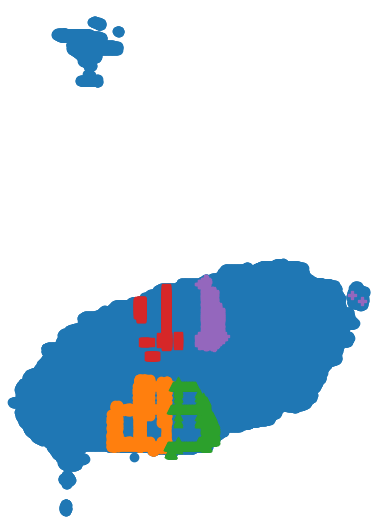
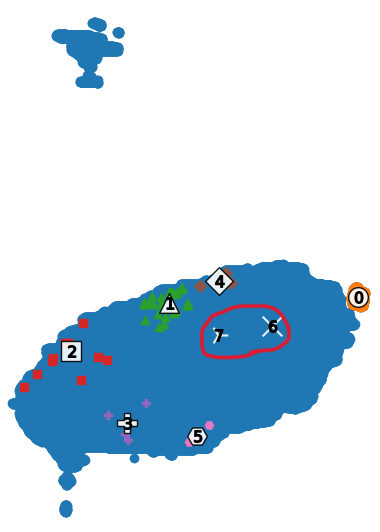
jhs2

diff --git a/templates/datapg/pr.html b/templates/datapg/pr.html
@@ -47,9 +47,28 @@
                                 <h3 class='panel-title' style='text-align:center;'>제주도 전기차 급속 충전소 최적 입지 선정</h3>
                             </div>
                             <div class='panel-body'>
+                                <form method="post">
+                                    <ul>
+                                        <li style="list-style-type: none;">
+                                            <input type="checkbox" id="chimsoo" value="0" name="chimsoo" checked>&nbsp;침수우려여부&emsp;
+                                            <input type="checkbox" id="cctv" value="1" name="cctv" checked>&nbsp;cctv 유무&emsp;
+                                            <input type="checkbox" id="search" value="2" name="search" checked>&nbsp;합산 검색 수&emsp;
+                                            <input type="checkbox" id="elecar" value="3" name="elecar" checked>&nbsp;2122전기차증감율&emsp;
+                                            <input type="checkbox" id="statis_2" value="4" name="statis_2" checked>&nbsp;2개년 통계_2&emsp;
+                                            <input type="checkbox" id="statis_1" value="5" name="statis_1" checked>&nbsp;2개년 통계_1&emsp;
+                                            <input type="checkbox" id="updown_1" value="6" name="updown_1" checked>&nbsp;2개년 증감율_1&emsp;
+                                            <input type="checkbox" id="updown_2" value="7" name="updown_2" checked>&nbsp;2개년 증감율_2&emsp;
+                                            <input type="checkbox" id="tour" value="8" name="tour" checked>&nbsp;관광객수&emsp;
+                                        </li>
+                                    </ul>
+                                    <div style="text-align: center; padding-bottom: 10px;">
+                                        <input type="button" id="sub" value="feature 변경">
+                                    </div>
+                                </form>
                                 <div id="map" style="width:100%; height:600px; margin:auto;"></div>
                             </div>
                             <div class="panel-footer">
+                                <a href="http://localhost:8081/tetttt">go to Spring</a>
                                 <h3 class="panel-title" style="text-align: right">최종 수정일 : 23.03.14</h3>
                             </div>
                         </div>
@@ -76,7 +95,7 @@
         <script src="{% static 'vendor/bootstrap/js/bootstrap.min.js' %}"></script>
         <script src="{% static 'vendor/jquery-slimscroll/jquery.slimscroll.min.js' %}"></script>
         <script src="{% static 'scripts/klorofil-common.js' %}"></script>
-
+        <script src="{% static 'scripts/pr.js' %}"></script>
         <!-- 카카오 맵 api -->
         <script type="text/javascript" src="//dapi.kakao.com/v2/maps/sdk.js?appkey=e033816e8f4fac437e466060be505bae&libraries=clusterer"></script>
         <script type="text/javascript">
@@ -84,7 +103,7 @@
             	center : new kakao.maps.LatLng(33.377, 126.538), // 지도의 중심좌표
             	level : 10 // 지도의 확대 레벨
             });
-
+            
             map2.setZoomable(false);
             map2.addControl(new kakao.maps.MapTypeControl(), kakao.maps.ControlPosition.TOPLEFT);
             map2.addControl(new kakao.maps.ZoomControl(), kakao.maps.ControlPosition.LEFT);

diff --git a/templates/datapg/pr_2.html b/templates/datapg/pr_2.html
@@ -46,21 +46,23 @@
                                     <h3 class="panel-title" style="text-align: center">제주도 전기차 급속 충전소 최적 입지 선정</h3>
                                 </div>
                                 <div class="panel-body">
-                                    <div class="col-xs-5">
+                                    <div class="col-xs-5" style="text-align:center;">
                                         <img src="{% static 'img/output1-1.png' %}" alt="charger" style="width: auto; height: 500px; margin: auto" />
                                         <br />
                                         <h3 style="text-align: center">설치 전</h3>
+                                        
                                         <br />
-                                        <h3 style="text-align: center">총 3603개의 입지 선정 후보지</h3>
+                                        <h3 style="text-align: center">총 419곳의 입지 선정 후보지</h3>
                                     </div>
                                     <div class="col-xs-2" style="padding-top: 250px">
                                         <img src="{% static 'img/gogo.png' %}" style="width: 100%; height: 100%; margin: auto" />
                                     </div>
-                                    <div class="col-xs-5">
+                                    <div class="col-xs-5" style="text-align:center;">
                                         <img src="{% static 'img/output_22.png' %}" alt="charger" style="width: auto; height: 500px; margin: auto" />
                                         <h3 style="text-align: center">설치 후</h3>
                                         <br />
-                                        <h3 style="text-align: center">3587개로 후보지 감소</h3>
+                                        <h3 style="text-align: center">418곳으로 후보지 감소</h3>
+                                        <h3 style="text-align: center"><b>제주시 봉개동, 구좌읍</b> 충전소 수요 해결</h3>
                                     </div>
                                 </div>
                             </div>

diff --git a/static/scripts/pr.js b/static/scripts/pr.js
@@ -1,0 +1,46 @@
+$(function () {
+    $("#sub").on("click", validation);
+});
+
+function validation() {
+    let chimsoo = $("#chimsoo").val();
+    let cctv = $("#cctv").val();
+    let search = $("#search").val();
+    let elecar_1 = $("#elecar").val();
+    let statis_2 = $("#statis_2").val();
+    let statis_1 = $("#statis_1").val();
+    let pl_mi_1 = $("#updown_1").val();
+    let pl_mi_2 = $("#updown_2").val();
+    let tour = $("#tour").val();
+
+    console.log(chimsoo);
+    console.log(cctv);
+    console.log(search);
+    console.log(elecar_1);
+    console.log(statis_2);
+    console.log(statis_1);
+    console.log(pl_mi_1);
+    console.log(pl_mi_2);
+    console.log(tour);
+
+    if (
+        !$("#chimsoo").is(":checked") &&
+        !$("#cctv").is(":checked") &&
+        !$("#search").is(":checked") &&
+        !$("#elecar").is(":checked") &&
+        !$("#statis_2").is(":checked") &&
+        !$("#statis_1").is(":checked") &&
+        !$("#updown_1").is(":checked") &&
+        !$("#updown_2").is(":checked") &&
+        !$("#tour").is(":checked")
+    ) {
+        alert("한가지 이상의 feature를 선택해야 합니다!");
+        return false;
+    } else {
+        list = []
+        for(var i=0;i<9;i++){
+            list.push
+        }
+        console.log("해제");
+    }
+}

diff --git a/datapg/views.py b/datapg/views.py
@@ -1,6 +1,13 @@
 from django.shortcuts import render
 from django.http import HttpResponse
 
+from pydantic import BaseModel
+from starlette.responses import JSONResponse
+
+import pickle
+
+import numpy as np
+import pandas as pd
 
 # Create your views here.
 def data_page(req):

diff --git a/datapg/urls.py b/datapg/urls.py
@@ -8,4 +8,5 @@ urlpatterns = [
     path("",views.data_page, name="datapage"),
     path("pr/",views.pr_pg, name='project'),
     path("pr_2/",views.pr_pg_2, name='project_2'),
+    path("items/",views.items, name='items'),
 ]
